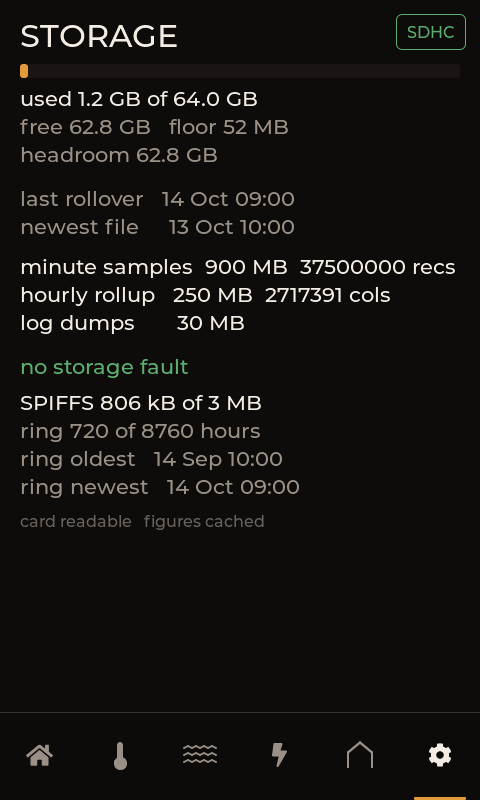
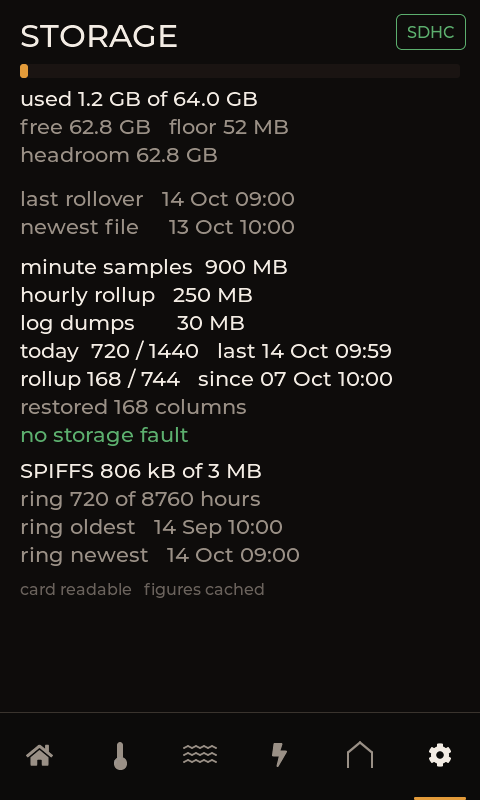
28_hauszentrale: show history occupancy and last restore count (S23.21)

Changed region(s): [[0.0312, 0.4062, 0.8125, 0.75], [0.5625, 0.3125, 0.8438, 0.375], [0.875, 0.3125, 0.9375, 0.3438]]

diff --git a/ESP32/28_hauszentrale/src/ui/haus_ui.c b/ESP32/28_hauszentrale/src/ui/haus_ui.c
@@ -3460,53 +3460,64 @@ lv_obj_t* haus_ui_build_storage(void) {
   label_make(root, line, 20, 216, &haus_body_21, C_DIM);
 
   fmt_bytes(st.can.sd_samples_bytes, a, sizeof(a));
-  snprintf(line, sizeof(line), "minute samples  %s  %llu recs", a,
-           (unsigned long long)(st.can.sd_samples_bytes /
-                                (uint64_t)sizeof(gui_sample_t)));
+  snprintf(line, sizeof(line), "minute samples  %s", a);
   label_make(root, line, 20, 256, &haus_body_21, C_INK);
 
   fmt_bytes(st.can.sd_rollup_bytes, a, sizeof(a));
-  snprintf(line, sizeof(line), "hourly rollup   %s  %llu cols", a,
-           (unsigned long long)(st.can.sd_rollup_bytes /
-                                (uint64_t)sizeof(RollupColumn)));
+  snprintf(line, sizeof(line), "hourly rollup   %s", a);
   label_make(root, line, 20, 284, &haus_body_21, C_INK);
 
   fmt_bytes(st.can.sd_logs_bytes, a, sizeof(a));
   snprintf(line, sizeof(line), "log dumps       %s", a);
   label_make(root, line, 20, 312, &haus_body_21, C_INK);
 
-  /* S23.20: SPIFFS is a book of its own; it must be visible when no card is
-   * fitted. Figures are refreshed by gui_storage_refresh() on panel open. */
-  fmt_bytes(st.can.spiffs_used_bytes, a, sizeof(a));
-  fmt_bytes(st.can.spiffs_total_bytes, b, sizeof(b));
-  snprintf(line, sizeof(line), "SPIFFS %s of %s", a, b);
-  label_make(root, line, 20, 392, &haus_body_21, C_INK);
+  /* S23.21: explicit evidence that sampling and restore are working. */
+  epoch_to_datetime(st.can.l1_last_epoch, when, sizeof(when));
+  snprintf(line, sizeof(line), "today  %u / %u   last %s",
+           (unsigned)st.can.l1_count, (unsigned)HAUS_L1_SAMPLES, when);
+  label_make(root, line, 20, 340, &haus_body_21, C_INK);
 
-  snprintf(line, sizeof(line), "ring %lu of %u hours",
-           (unsigned long)st.can.ring_hours, (unsigned)HAUS_RING_HOURS);
-  label_make(root, line, 20, 420, &haus_body_21, C_DIM);
+  epoch_to_datetime(st.can.l2_first_epoch, when, sizeof(when));
+  snprintf(line, sizeof(line), "rollup %u / %u   since %s",
+           (unsigned)st.can.l2_count, (unsigned)HAUS_L2_COLUMNS, when);
+  label_make(root, line, 20, 368, &haus_body_21, C_INK);
 
-  epoch_to_datetime(st.can.ring_oldest_epoch, when, sizeof(when));
-  snprintf(line, sizeof(line), "ring oldest   %s", when);
-  label_make(root, line, 20, 448, &haus_body_21, C_DIM);
-
-  epoch_to_datetime(st.can.ring_newest_epoch, when, sizeof(when));
-  snprintf(line, sizeof(line), "ring newest   %s", when);
-  label_make(root, line, 20, 476, &haus_body_21, C_DIM);
+  snprintf(line, sizeof(line), "restored %lu columns",
+           (unsigned long)st.can.last_restore_columns);
+  label_make(root, line, 20, 396, &haus_body_21, C_DIM);
 
   /* Faulty is sticky and keeps the first-failure time (D44/S23.10). */
   if (st.can.sd_fault_since_epoch) {
     epoch_to_datetime(st.can.sd_fault_since_epoch, when, sizeof(when));
     snprintf(line, sizeof(line), "FAULTY since %s", when);
-    label_make(root, line, 20, 356, &haus_body_21, C_HOT);
+    label_make(root, line, 20, 424, &haus_body_21, C_HOT);
   } else {
-    label_make(root, "no storage fault", 20, 356, &haus_body_21, C_OK);
+    label_make(root, "no storage fault", 20, 424, &haus_body_21, C_OK);
   }
+
+  /* S23.20: SPIFFS is a book of its own; it must be visible when no card is
+   * fitted. Figures are refreshed by gui_storage_refresh() on panel open. */
+  fmt_bytes(st.can.spiffs_used_bytes, a, sizeof(a));
+  fmt_bytes(st.can.spiffs_total_bytes, b, sizeof(b));
+  snprintf(line, sizeof(line), "SPIFFS %s of %s", a, b);
+  label_make(root, line, 20, 460, &haus_body_21, C_INK);
+
+  snprintf(line, sizeof(line), "ring %lu of %u hours",
+           (unsigned long)st.can.ring_hours, (unsigned)HAUS_RING_HOURS);
+  label_make(root, line, 20, 488, &haus_body_21, C_DIM);
+
+  epoch_to_datetime(st.can.ring_oldest_epoch, when, sizeof(when));
+  snprintf(line, sizeof(line), "ring oldest   %s", when);
+  label_make(root, line, 20, 516, &haus_body_21, C_DIM);
+
+  epoch_to_datetime(st.can.ring_newest_epoch, when, sizeof(when));
+  snprintf(line, sizeof(line), "ring newest   %s", when);
+  label_make(root, line, 20, 544, &haus_body_21, C_DIM);
 
   label_make(root,
              mounted ? "card readable   figures cached"
                      : "no card   history stays in SPIFFS",
-             20, 512, &lv_font_montserrat_16, C_FAINT);
+             20, 580, &lv_font_montserrat_16, C_FAINT);
 
   nav_build(UI_SCREEN_SETTINGS);
   return root;

diff --git a/ESP32/28_hauszentrale/src/haus_history.cpp b/ESP32/28_hauszentrale/src/haus_history.cpp
@@ -13,6 +13,9 @@
 #include <string.h>
 #include <time.h>
 
+/* Last haus_history_restore() result, for the storage panel (S23.21). */
+static uint32_t s_last_restore_columns = 0;
+
 uint32_t haus_crc32(const void* data, size_t len) {
   const uint8_t* p = (const uint8_t*)data;
   uint32_t crc = 0xFFFFFFFFu;
@@ -529,15 +532,6 @@ bool haus_history_sample(const HausState* state, uint32_t epoch_seconds) {
   return true;
 }
 
-size_t haus_history_l1_count(void) {
-  if (!s_l1) return 0;
-  size_t n = 0;
-  for (size_t i = 0; i < HAUS_L1_SAMPLES; i++) {
-    if (s_l1[i].epoch != 0) n++;
-  }
-  return n;
-}
-
 void haus_history_flush_hour(uint32_t epoch_seconds) {
 #ifndef HAUS_HOST
   if (!s_ring_ready || !s_l2) return;
@@ -659,6 +653,7 @@ size_t haus_history_restore(uint32_t now_epoch) {
     }
   }
 
+  s_last_restore_columns = (uint32_t)restored;
   return restored;
 }
 
@@ -1112,6 +1107,7 @@ size_t haus_history_restore(uint32_t now_epoch) {
   if (restored > 0) {
     TPL_LOGI("history", "restored %u columns from SD rollup",
              (unsigned)restored);
+    s_last_restore_columns = (uint32_t)restored;
     return restored;
   }
 
@@ -1139,6 +1135,7 @@ size_t haus_history_restore(uint32_t now_epoch) {
 
   TPL_LOGI("history", "restored %u columns from SPIFFS ring",
            (unsigned)restored);
+  s_last_restore_columns = (uint32_t)restored;
   return restored;
 }
 
@@ -1239,3 +1236,69 @@ void haus_history_start_recorder(void) {
 }
 
 #endif /* HAUS_HOST */
+
+/* ─── Occupancy and restore evidence (S23.21) ──────────────────────────────
+ * Shared: s_l1/s_l2 and s_last_restore_columns come from the selected branch.
+ */
+
+size_t haus_history_l1_count(void) {
+  if (!s_l1) return 0;
+  size_t n = 0;
+  for (size_t i = 0; i < HAUS_L1_SAMPLES; i++) {
+    if (s_l1[i].epoch != 0) n++;
+  }
+  return n;
+}
+
+uint16_t haus_history_l2_count(void) {
+  if (!s_l2) return 0;
+  uint16_t n = 0;
+  for (size_t i = 0; i < HAUS_L2_COLUMNS; i++) {
+    if (s_l2[i].t != 0) n++;
+  }
+  return n;
+}
+
+uint32_t haus_history_l1_first_epoch(void) {
+  if (!s_l1) return 0;
+  uint32_t first = 0;
+  for (size_t i = 0; i < HAUS_L1_SAMPLES; i++) {
+    if (s_l1[i].epoch == 0) continue;
+    if (first == 0 || s_l1[i].epoch < first) first = s_l1[i].epoch;
+  }
+  return first;
+}
+
+uint32_t haus_history_l1_last_epoch(void) {
+  if (!s_l1) return 0;
+  uint32_t last = 0;
+  for (size_t i = 0; i < HAUS_L1_SAMPLES; i++) {
+    if (s_l1[i].epoch > last) last = s_l1[i].epoch;
+  }
+  return last;
+}
+
+uint32_t haus_history_l2_first_epoch(void) {
+  if (!s_l2) return 0;
+  uint32_t first = 0;
+  for (size_t i = 0; i < HAUS_L2_COLUMNS; i++) {
+    if (s_l2[i].t == 0) continue;
+    const uint32_t epoch = s_l2[i].t * 60u;
+    if (first == 0 || epoch < first) first = epoch;
+  }
+  return first;
+}
+
+uint32_t haus_history_l2_last_epoch(void) {
+  if (!s_l2) return 0;
+  uint32_t last = 0;
+  for (size_t i = 0; i < HAUS_L2_COLUMNS; i++) {
+    const uint32_t epoch = s_l2[i].t * 60u;
+    if (epoch > last) last = epoch;
+  }
+  return last;
+}
+
+uint32_t haus_history_last_restore_count(void) {
+  return s_last_restore_columns;
+}

diff --git a/ESP32/28_hauszentrale/src/main.cpp b/ESP32/28_hauszentrale/src/main.cpp
@@ -301,11 +301,13 @@ void setup() {
              "{\"initialized\":%s,\"type\":\"%s\",\"total\":%llu,"
              "\"used\":%llu,\"free\":%llu,\"floor\":%llu,"
              "\"headroom\":%llu,\"samples\":%llu,\"rollup\":%llu,"
-             "\"sample_records\":%llu,\"rollup_records\":%llu,"
              "\"logs\":%llu,\"last_rollover\":%lu,\"newest_file\":%lu,"
              "\"fault_since\":%lu,\"spiffs_total\":%lu,"
              "\"spiffs_used\":%lu,\"ring_bytes\":%lu,\"ring_hours\":%lu,"
-             "\"ring_oldest\":%lu,\"ring_newest\":%lu,\"writing\":%s,"
+             "\"ring_oldest\":%lu,\"ring_newest\":%lu,"
+             "\"l1_count\":%u,\"l2_count\":%u,\"l1_first\":%lu,"
+             "\"l1_last\":%lu,\"l2_first\":%lu,\"l2_last\":%lu,"
+             "\"restored\":%lu,\"writing\":%s,"
              "\"can_running\":%s,\"mux_can\":%s,"
              "\"can_state\":%u,\"can_tec\":%lu,\"can_rec\":%lu,"
              "\"can_rx\":%lu,\"can_tx\":%lu,\"can_err\":%lu,"
@@ -320,10 +322,6 @@ void setup() {
                                       : 0),
              (unsigned long long)st.can.sd_samples_bytes,
              (unsigned long long)st.can.sd_rollup_bytes,
-             (unsigned long long)(st.can.sd_samples_bytes /
-                                  (uint64_t)sizeof(gui_sample_t)),
-             (unsigned long long)(st.can.sd_rollup_bytes /
-                                  (uint64_t)sizeof(RollupColumn)),
              (unsigned long long)st.can.sd_logs_bytes,
              (unsigned long)st.can.sd_last_rollover_epoch,
              (unsigned long)st.can.sd_newest_file_epoch,
@@ -334,6 +332,12 @@ void setup() {
              (unsigned long)st.can.ring_hours,
              (unsigned long)st.can.ring_oldest_epoch,
              (unsigned long)st.can.ring_newest_epoch,
+             (unsigned)st.can.l1_count, (unsigned)st.can.l2_count,
+             (unsigned long)st.can.l1_first_epoch,
+             (unsigned long)st.can.l1_last_epoch,
+             (unsigned long)st.can.l2_first_epoch,
+             (unsigned long)st.can.l2_last_epoch,
+             (unsigned long)st.can.last_restore_columns,
              st.can.sd_writing ? "true" : "false",
              haus_can_bus_running() ? "true" : "false",
              tpl_ws7_can_available() ? "true" : "false",

diff --git a/ESP32/28_hauszentrale/src/haus_gui.cpp b/ESP32/28_hauszentrale/src/haus_gui.cpp
@@ -590,6 +590,14 @@ void gui_update_state(void) {
   can.ring_hours = ring.hours;
   can.ring_oldest_epoch = ring.oldest_epoch;
   can.ring_newest_epoch = ring.newest_epoch;
+
+  can.l1_count = (uint16_t)haus_history_l1_count();
+  can.l2_count = haus_history_l2_count();
+  can.l1_first_epoch = haus_history_l1_first_epoch();
+  can.l1_last_epoch = haus_history_l1_last_epoch();
+  can.l2_first_epoch = haus_history_l2_first_epoch();
+  can.l2_last_epoch = haus_history_l2_last_epoch();
+  can.last_restore_columns = haus_history_last_restore_count();
   can.sd_status = !haus_sd_present()
                       ? GUI_STATUS_INACTIVE
                       : (can.sd_writing ? GUI_STATUS_ERROR : GUI_STATUS_OK);

diff --git a/ESP32/28_hauszentrale/include/haus_history.h b/ESP32/28_hauszentrale/include/haus_history.h
@@ -68,6 +68,14 @@ typedef struct {
 
 void haus_history_ring_stats(haus_ring_stats_t* out);
 
+/* Occupancy and restore evidence for the Storage panel (S23.21). */
+uint16_t haus_history_l2_count(void);
+uint32_t haus_history_l1_first_epoch(void);
+uint32_t haus_history_l1_last_epoch(void);
+uint32_t haus_history_l2_first_epoch(void);
+uint32_t haus_history_l2_last_epoch(void);
+uint32_t haus_history_last_restore_count(void);
+
 /* Load up to max_columns newest columns into out, oldest first. Returns the
  * number written. Uses the wall clock; returns 0 before the clock is valid. */
 size_t haus_history_ring_load(RollupColumn* out, size_t max_columns);

diff --git a/ESP32/28_hauszentrale/host_harness/src/haus_gui_mock.cpp b/ESP32/28_hauszentrale/host_harness/src/haus_gui_mock.cpp
@@ -370,6 +370,13 @@ void gui_update_state(void) {
   can.ring_hours = 30u * 24u;
   can.ring_oldest_epoch = g_sim_time - 30u * 86400u;
   can.ring_newest_epoch = g_sim_time - 3600u;
+  can.l1_count = 720;
+  can.l2_count = 168;
+  can.l1_first_epoch = g_sim_time - 12u * 3600u;
+  can.l1_last_epoch = g_sim_time - 60u;
+  can.l2_first_epoch = g_sim_time - 7u * 86400u;
+  can.l2_last_epoch = g_sim_time - 3600u;
+  can.last_restore_columns = 168;
 
   /* Chamber target. */
   can.chamber_target_c = mock_target_temp(g_sim_time);

diff --git a/ESP32/28_hauszentrale/include/haus_gui.h b/ESP32/28_hauszentrale/include/haus_gui.h
@@ -174,6 +174,15 @@ typedef struct {
   uint32_t ring_hours;
   uint32_t ring_oldest_epoch;
   uint32_t ring_newest_epoch;
+
+  /* Occupancy evidence (S23.21): L1/L2 entries and the last restore count. */
+  uint16_t l1_count;
+  uint16_t l2_count;
+  uint32_t l1_first_epoch;
+  uint32_t l1_last_epoch;
+  uint32_t l2_first_epoch;
+  uint32_t l2_last_epoch;
+  uint32_t last_restore_columns;
 } CanState;
 
 /* Owner: sensorTask. Written completely each cycle, published as one block. */

diff --git a/ESP32/28_hauszentrale/docs/todos.md b/ESP32/28_hauszentrale/docs/todos.md
@@ -407,8 +407,8 @@ before treating `sml_error_cnt` as a diagnostic.
 - [x] S23.17 Show the panel's WiFi IP in SETTINGS — Test: the address matches the DHCP lease, so the web UI can be reached when CAN has taken GPIO 19/20 and USB is gone — Done: the `NETWORK` row renders `gui_wifi_ip()` (`haus_ui.c:3371`, `haus_gui.cpp:341-346`).
 - [x] S23.18 Show the firmware version from version.h in SETTINGS — Test: the displayed version matches the binary that was flashed, so a panel in the field can be identified without USB — Done: the `FIRMWARE` row renders `VERSION_STRING` from `version.h` (`haus_ui.c:26-30,3373`).
 - [x] S23.19 Absent card must not latch a storage fault: only a card that was mounted and then disappeared, or a failed write, may set FAULTY; a card that was never present stays merely ABSENT — Test: boot with no card shows ABSENT and no fault timestamp, pulling a mounted card sets the fault, reinserting clears it — Done: `haus_sd_ever_mounted()` gates both the 30 s watchdog and the failed-write path; a never-present card stays ABSENT with no `note_fault()`. A verified remount clears the operational fault flag, while the first-failure timestamp stays until a clean rollover (S23.10). Verified card-less on the bench: `/sd/status` reports `"type":"ABSENT","fault_since":0`.
-- [x] S23.20 Show SPIFFS ring statistics on the Storage panel and in `/sd/status`: total/used/free, ring hours present, oldest/newest hour — Test: with no card the panel shows the ring figures and they match `/sd/status` — Done: `haus_history_ring_stats()` caches SPIFFS total/used, ring capacity, non-zero hours and oldest/newest; the Storage panel renders `SPIFFS 799 kB of 3.4 MB`, `ring 1 of 8760 hours`, the oldest/newest lines, and record counts (`minute samples … recs`, `hourly rollup … cols`). `gui_storage_refresh()` now publishes immediately, so the first `/sd/status` after boot matches: `"spiffs_total":3546881,"spiffs_used":818511,"ring_bytes":805920`.
-- [x] S23.21 Replay the card's history when a card is inserted after a card-less boot — Test: insert a card with `rollup.bin`/day files and the week/month charts show it without a reboot — Done: the SD watchdog calls `haus_history_restore()` after a verified mount/remount and requests a redraw; the log line is `card inserted: restored N columns`. Note the day chart only shows today; a card whose newest file is yesterday fills the week/month rollup, and the day view stays empty until new samples arrive (and CAN must be on for new temperature/power samples).
+- [x] S23.20 Show SPIFFS ring statistics on the Storage panel and in `/sd/status`: total/used/free, ring hours present, oldest/newest hour — Test: with no card the panel shows the ring figures and they match `/sd/status` — Done: `haus_history_ring_stats()` caches SPIFFS total/used, ring capacity, non-zero hours and oldest/newest; the Storage panel renders `SPIFFS 799 kB of 3.4 MB`, `ring 1 of 8760 hours`, and the oldest/newest lines. `gui_storage_refresh()` now publishes immediately, so the first `/sd/status` after boot matches: `"spiffs_total":3546881,"spiffs_used":818511,"ring_bytes":805920`.
+- [x] S23.21 Replay the card's history when a card is inserted after a card-less boot, and show occupancy evidence — Test: insert a card with `rollup.bin`/day files and the week/month charts show it without a reboot; STORAGE shows how many entries exist and since when — Done: the SD watchdog calls `haus_history_restore()` after a verified mount/remount and requests a redraw; the log reads `restored 4 columns from SD rollup` and `boot restore: 4 columns`. STORAGE now renders `today N / 1440 last <time>`, `rollup N / 744 since <time>`, `restored N columns`, and `/sd/status` carries `l1_count`, `l2_count`, `l1_first/last`, `l2_first/last`, `restored`. Verified on the card: `l1_count` rose 3 → 5 in 70 s while `l2_count` stayed 5, so sampling and restore are both live. The charts show no line for the restored samples because CAN is off and every restored sample carries `SAMPLE_STALE_CHAMBER/WATER/POWER`; the chart deliberately skips stale series. Turn CAN on to get plotted points.
 
 ## S24 · CAN ENABLE SWITCH (boot sequence, N19)
 
